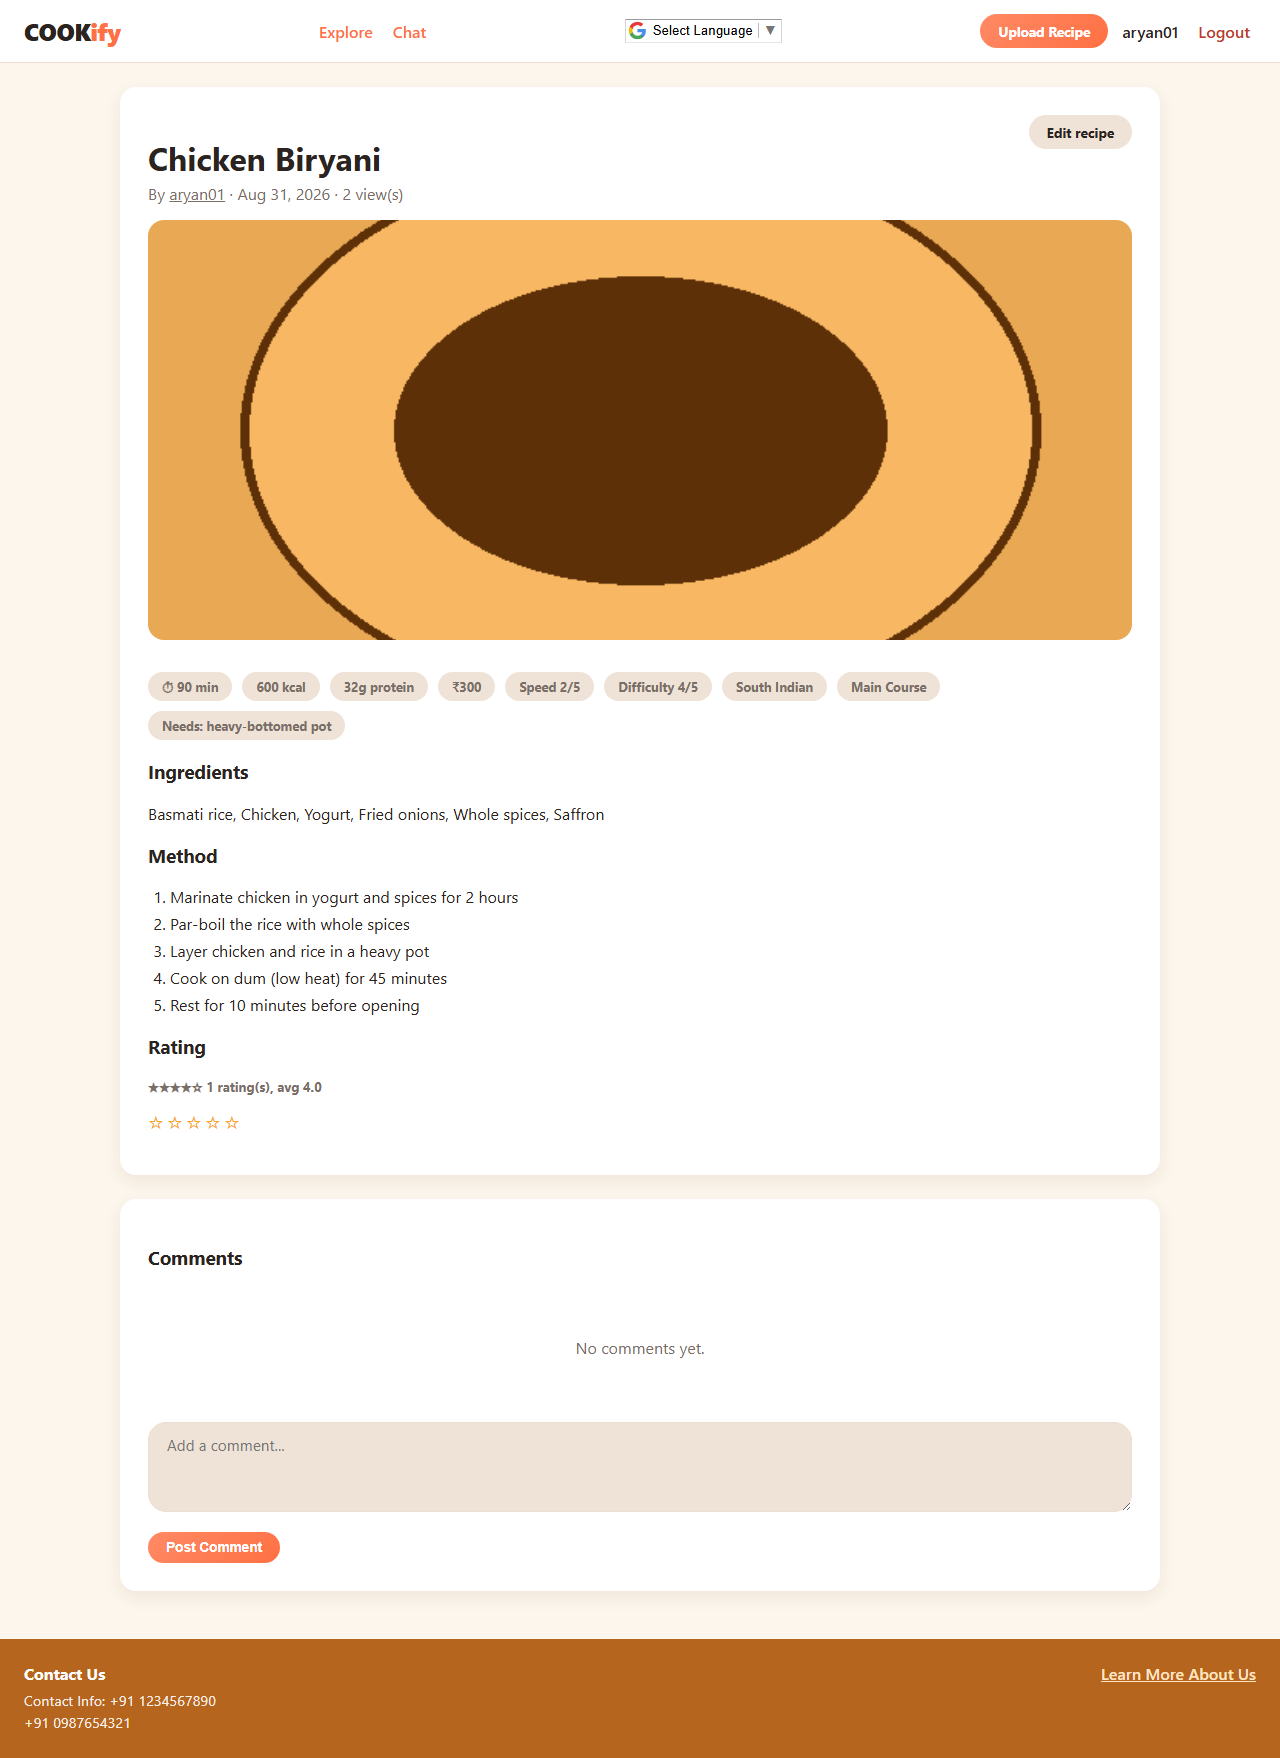
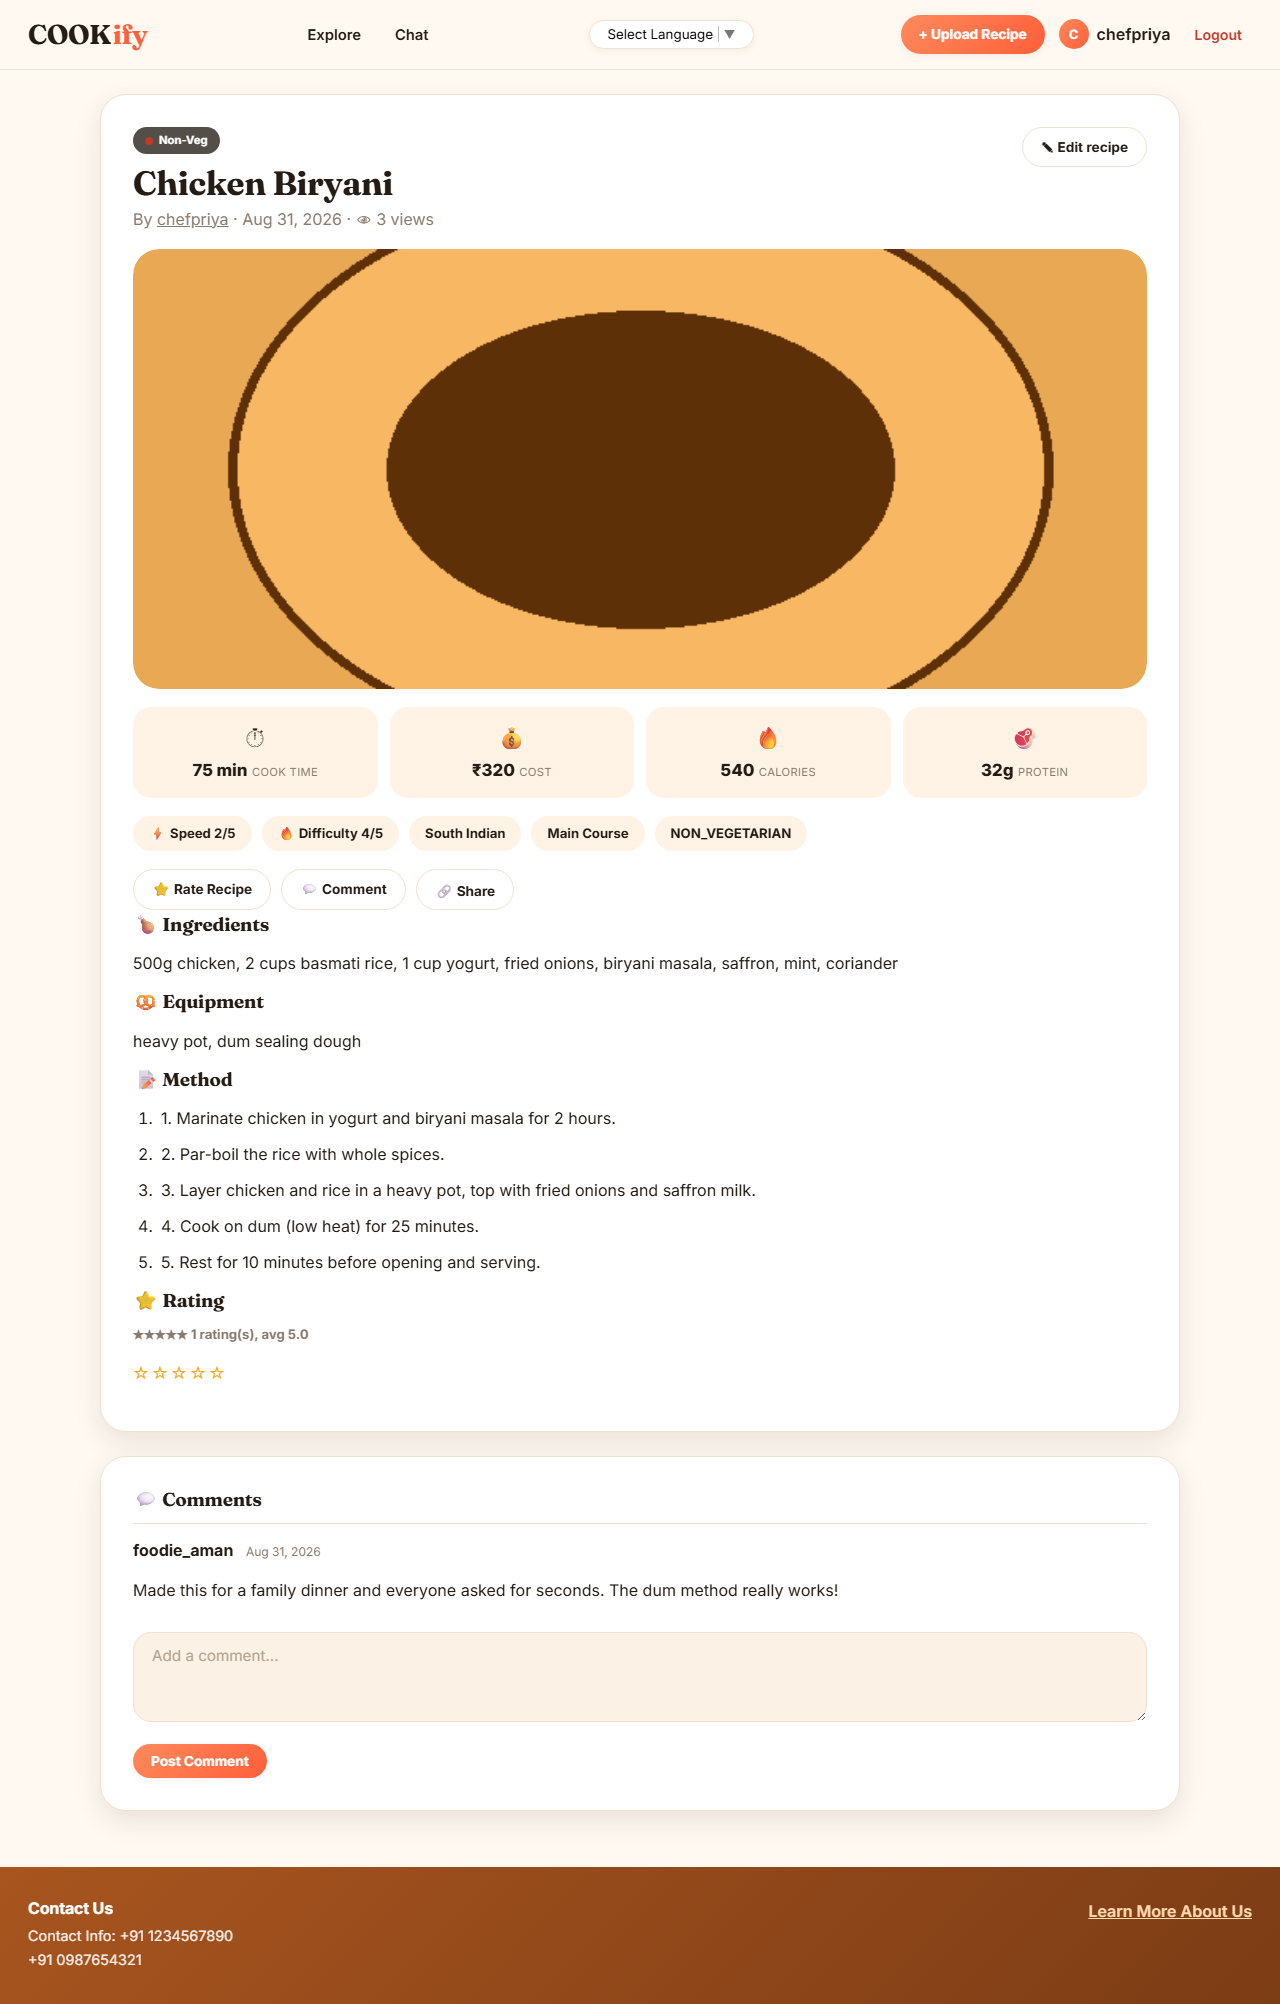
Refresh screenshots for the redesigned UI, update README and docs
- Replace all 6 screenshots with fresh captures of the current
  redesigned app (populated with real seeded data: recipes, ratings,
  comments, a subscription, and a chat conversation) -- the previous
  set still showed the pre-redesign UI.
- Add 3 new screenshots (login, signup, chat) that had no coverage
  before.
- Update README's Screenshots section to reference all 9 images with
  accurate captions (landing page is now a real home page, not a
  login-or-splash card).
- Correct a stale claim in DESIGN-DEVIATIONS.md: the Phase 7 entry
  said the landing page auto-redirects to browse.html for an active
  session -- that behavior was deliberately removed in the UI
  redesign (index.html is now a real home page shown to every
  visitor), so the entry is annotated as superseded rather than left
  factually wrong.

No application code changed.

diff --git a/DESIGN-DEVIATIONS.md b/DESIGN-DEVIATIONS.md
@@ -332,12 +332,17 @@ not replacing, the class hierarchy.
   reset.html`, `browse.html`, `recipe.html`, `recipe-form.html`
   serving both Upload and Edit, `profile.html` serving both the owner
   view with Edit Profile and the public view with Subscribe). The
-  landing page auto-redirects to `browse.html` when a session is
-  already active, rather than showing the splash every visit --
-  reconciling the PDF's structure diagram (Homepage gates on Signup/
-  Login) with "remember login details on devices" (test case 2)
+  landing page originally auto-redirected to `browse.html` when a
+  session was already active, rather than showing the splash every
+  visit -- reconciling the PDF's structure diagram (Homepage gates on
+  Signup/Login) with "remember login details on devices" (test case 2)
   actually being visible to a returning user, not just true in the
-  session cookie.
+  session cookie. **Superseded in the UI redesign** (after Phase 8):
+  `index.html` is now a real home page (hero, Trending/Top Rated/
+  Latest/Recommended sections) rather than a login-or-redirect splash,
+  so it's shown to every visitor regardless of session state --
+  "remember login details" is still satisfied by the nav showing the
+  logged-in user immediately, without needing a redirect to prove it.
 - **2FA is presented as a two-step reveal on one screen**, not two
   screens: the OTP field is hidden until the identifier/password step
   succeeds, then appears in place with the same fields disabled --

diff --git a/README.md b/README.md
@@ -8,13 +8,17 @@ A recipe-sharing web application: sign up, upload recipes with photo/video, sear
 
 ## Screenshots
 
-| Landing | Explore | Recipe detail |
+| Home | Explore | Explore (filtered) |
 |---|---|---|
-| ![Landing page](screenshots/01-landing.png) | ![Explore Recipes](screenshots/02-browse.png) | ![Recipe detail](screenshots/03-recipe-detail.png) |
+| ![Home page](screenshots/01-landing.png) | ![Explore Recipes](screenshots/02-browse.png) | ![Explore filtered to Non-Veg](screenshots/06-browse-filtered-nonveg.png) |
 
-| Add Recipe | Profile |
-|---|---|
-| ![Add Recipe form](screenshots/04-recipe-form.png) | ![Profile page](screenshots/05-profile.png) |
+| Recipe detail | Add Recipe | Profile |
+|---|---|---|
+| ![Recipe detail](screenshots/03-recipe-detail.png) | ![Add Recipe form](screenshots/04-recipe-form.png) | ![Profile page](screenshots/05-profile.png) |
+
+| Login | Sign Up | Chat |
+|---|---|---|
+| ![Login page](screenshots/07-login.png) | ![Sign Up page](screenshots/08-signup.png) | ![Chat page](screenshots/09-chat.png) |
 
 ## Running it locally
 
